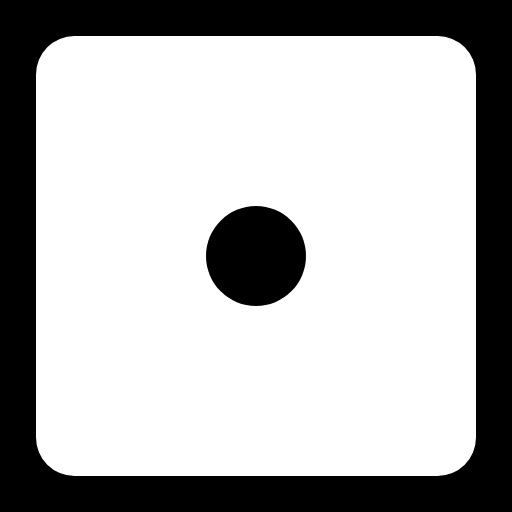
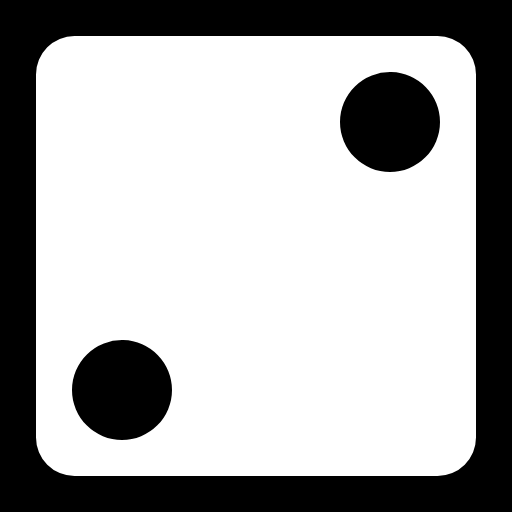
dice roll game

Changed region(s): [[0.6562, 0.125, 0.875, 0.3438], [0.125, 0.6562, 0.3438, 0.875], [0.4062, 0.4062, 0.5938, 0.5938]]

diff --git a/divce_roll game/script.js b/divce_roll game/script.js
@@ -7,7 +7,7 @@ let imgs = [];
 
 
 for (let i = 0; i < usr_input; i++){
-    let value = Math.floor(Math.random() * 6);
+    let value = Math.floor(Math.random() * 6) + 1;
     values.push(value);
     imgs.push(`<img src="png/${value}.png">`);
  };
